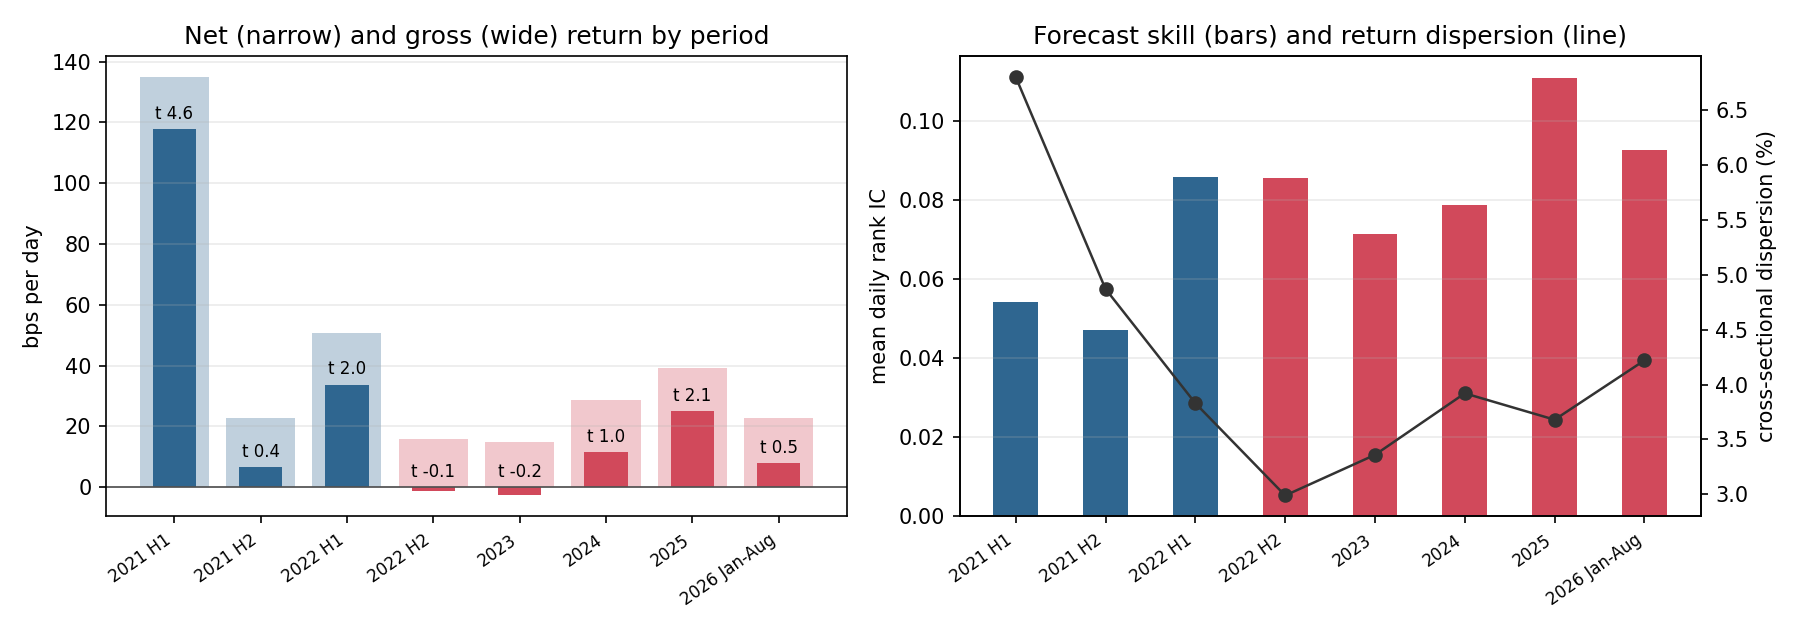
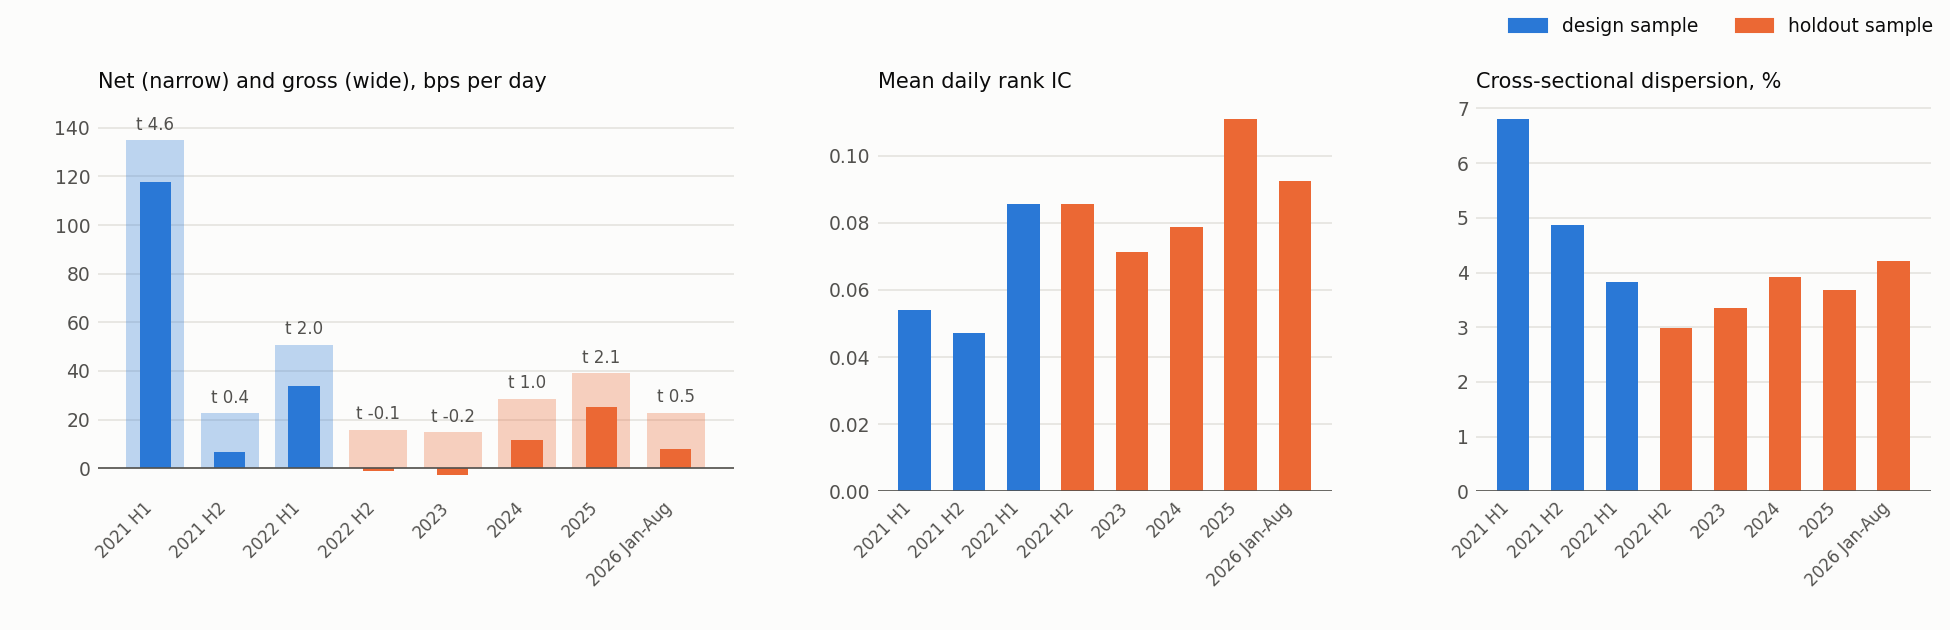
Refine the README and figures, add an MIT license

diff --git a/crypto_xs/plots.py b/crypto_xs/plots.py
@@ -1,67 +1,103 @@
-"""README figures from the saved books and summary."""
+"""README figures from the saved books and summary, in a light and a dark version."""
 import json
 
 import matplotlib
 matplotlib.use("Agg")
+import matplotlib.ticker
 import matplotlib.pyplot as plt
 import numpy as np
 import pandas as pd
 
 from .config import OUTPUT, ROOT, SAMPLES, utc
 
-COLORS = {"design": "#2f6690", "holdout": "#d1495b"}
+THEMES = {
+    "light": dict(surface="#fcfcfb", text="#0b0b0b", muted="#52514e", grid="#e4e3df",
+                  design="#2a78d6", holdout="#eb6834"),
+    "dark": dict(surface="#1a1a19", text="#ffffff", muted="#c3c2b7", grid="#34342f",
+                 design="#3987e5", holdout="#d95926"),
+}
 
 
-def equity_and_drawdown():
-    fig, (ax, bx) = plt.subplots(2, 1, figsize=(10, 6.5), sharex=True, gridspec_kw=dict(height_ratios=[2.2, 1]))
+def style(ax, t, grid_axis="y"):
+    ax.set_facecolor(t["surface"])
+    for side in ("top", "right", "left"):
+        ax.spines[side].set_visible(False)
+    ax.spines["bottom"].set_color(t["muted"])
+    ax.spines["bottom"].set_linewidth(0.8)
+    ax.tick_params(which="both", colors=t["muted"], labelsize=9, length=0)
+    ax.grid(axis=grid_axis, color=t["grid"], linewidth=0.8)
+    ax.set_axisbelow(True)
+
+
+def equity_and_drawdown(t, suffix):
+    fig, (ax, bx) = plt.subplots(2, 1, figsize=(10, 6.2), sharex=True, gridspec_kw=dict(height_ratios=[2.3, 1], hspace=0.08))
+    fig.patch.set_facecolor(t["surface"])
     start = 1.0
     for sample in SAMPLES:
         net = pd.read_parquet(OUTPUT / f"book_{sample}.parquet").net.dropna()
         eq = (1 + net).cumprod()
-        ax.plot(eq.index, start * eq, color=COLORS[sample], lw=1.4, label=f"{sample} sample")
-        bx.fill_between(eq.index, 100 * (eq / eq.cummax() - 1), 0, color=COLORS[sample], alpha=0.35, lw=0)
+        ax.plot(eq.index, start * eq, color=t[sample], lw=1.6, label=f"{sample} sample")
+        bx.fill_between(eq.index, 100 * (eq / eq.cummax() - 1), 0, color=t[sample], alpha=0.45, lw=0)
+        ax.annotate(f"${start * eq.iloc[-1]:,.1f}", (eq.index[-1], start * eq.iloc[-1]), xytext=(6, 0),
+                    textcoords="offset points", va="center", fontsize=9, color=t["text"])
         start *= eq.iloc[-1]
     for a in (ax, bx):
-        a.axvline(utc("2022-07-01"), color="0.3", lw=0.8, ls="--")
-        a.grid(alpha=0.25)
+        style(a, t)
+        a.axvline(utc("2022-07-01"), color=t["muted"], lw=0.8)
+    ax.text(utc("2022-07-20"), 1.05, "holdout opens 2022-07-01", color=t["muted"], fontsize=9, va="bottom")
     ax.set_yscale("log")
-    ax.set_ylabel("growth of $1, net of cost (log)")
-    ax.legend(frameon=False, loc="upper left")
-    ax.set_title("Daily long-short book on Binance USDT perpetuals, net of trading cost, funding included")
-    bx.set_ylabel("drawdown within sample (%)")
-    fig.tight_layout()
-    fig.savefig(ROOT / "figures" / "equity.png", dpi=150)
+    ax.set_yticks([1, 2, 5, 10, 20, 50])
+    ax.set_yticklabels(["$1", "$2", "$5", "$10", "$20", "$50"])
+    ax.yaxis.set_minor_locator(matplotlib.ticker.NullLocator())
+    ax.set_ylabel("growth of $1, net of cost (log scale)", color=t["muted"], fontsize=9)
+    leg = ax.legend(frameon=False, loc="upper left", fontsize=9)
+    for txt in leg.get_texts():
+        txt.set_color(t["text"])
+    ax.set_title("Daily long-short book on Binance USDT perpetuals, after trading cost and funding",
+                 color=t["text"], fontsize=11, loc="left", pad=10)
+    bx.set_ylabel("drawdown within\nsample (%)", color=t["muted"], fontsize=9)
+    fig.subplots_adjust(left=0.09, right=0.93, top=0.92, bottom=0.07)
+    fig.savefig(ROOT / "figures" / f"equity{suffix}.png", dpi=150, facecolor=t["surface"])
     plt.close(fig)
 
 
-def by_period():
+def by_period(t, suffix):
     s = json.load(open(OUTPUT / "summary.json"))
     rows = [(lab, sample, p) for sample in SAMPLES for lab, p in s[sample]["periods"].items()]
-    x = np.arange(len(rows)); colors = [COLORS[r[1]] for r in rows]
-    fig, (ax, bx) = plt.subplots(1, 2, figsize=(12, 4.2))
-    ax.bar(x, [r[2]["gross_bps"] for r in rows], color=colors, alpha=0.3, label="gross")
-    ax.bar(x, [r[2]["net_bps"] for r in rows], color=colors, width=0.5, label="net")
+    x = np.arange(len(rows)); colors = [t[r[1]] for r in rows]
+    fig, axes = plt.subplots(1, 3, figsize=(13, 4.2), gridspec_kw=dict(width_ratios=[1.4, 1, 1], wspace=0.28))
+    fig.patch.set_facecolor(t["surface"])
+    ax, bx, cx = axes
+    ax.bar(x, [r[2]["gross_bps"] for r in rows], width=0.78, color=colors, alpha=0.3)
+    ax.bar(x, [r[2]["net_bps"] for r in rows], width=0.42, color=colors)
     for i, r in enumerate(rows):
-        ax.annotate(f"t {r[2]['t_nw10']:.1f}", (i, max(r[2]["net_bps"], 0)), ha="center", va="bottom", fontsize=8, xytext=(0, 3), textcoords="offset points")
-    ax.axhline(0, color="0.3", lw=0.8)
-    ax.set_ylabel("bps per day")
-    ax.set_title("Net (narrow) and gross (wide) return by period")
-    bx.bar(x, [r[2]["ic"] for r in rows], color=colors, width=0.5)
-    bx.set_ylabel("mean daily rank IC")
-    cx = bx.twinx()
-    cx.plot(x, [r[2]["dispersion_pct"] for r in rows], color="0.2", marker="o", lw=1.2)
-    cx.set_ylabel("cross-sectional dispersion (%)")
-    bx.set_title("Forecast skill (bars) and return dispersion (line)")
-    for a in (ax, bx):
+        top = max(r[2]["net_bps"], r[2]["gross_bps"], 0)
+        ax.annotate(f"t {r[2]['t_nw10']:.1f}", (i, top), xytext=(0, 3), textcoords="offset points", ha="center",
+                    va="bottom", fontsize=8, color=t["muted"])
+    ax.set_ylim(top=1.12 * max(max(r[2]["gross_bps"], r[2]["net_bps"]) for r in rows))
+    ax.set_title("Net (narrow) and gross (wide), bps per day", color=t["text"], fontsize=10, loc="left")
+    bx.bar(x, [r[2]["ic"] for r in rows], width=0.6, color=colors)
+    bx.set_title("Mean daily rank IC", color=t["text"], fontsize=10, loc="left")
+    cx.bar(x, [r[2]["dispersion_pct"] for r in rows], width=0.6, color=colors)
+    cx.set_title("Cross-sectional dispersion, %", color=t["text"], fontsize=10, loc="left")
+    for a in axes:
+        style(a, t)
+        a.axhline(0, color=t["muted"], lw=0.8)
+        a.spines["bottom"].set_visible(False)
         a.set_xticks(x)
-        a.set_xticklabels([r[0] for r in rows], rotation=35, ha="right", fontsize=8)
-        a.grid(alpha=0.25, axis="y")
-    fig.tight_layout()
-    fig.savefig(ROOT / "figures" / "by_period.png", dpi=150)
+        a.set_xticklabels([r[0] for r in rows], rotation=45, ha="right", fontsize=8)
+    handles = [plt.Rectangle((0, 0), 1, 1, color=t[k]) for k in SAMPLES]
+    leg = fig.legend(handles, [f"{k} sample" for k in SAMPLES], loc="upper right", ncol=2, frameon=False, fontsize=9)
+    for txt in leg.get_texts():
+        txt.set_color(t["text"])
+    fig.subplots_adjust(left=0.05, right=0.99, top=0.84, bottom=0.22)
+    fig.savefig(ROOT / "figures" / f"by_period{suffix}.png", dpi=150, facecolor=t["surface"])
     plt.close(fig)
 
 
 def run():
     (ROOT / "figures").mkdir(exist_ok=True)
-    equity_and_drawdown()
-    by_period()
+    for name, t in THEMES.items():
+        suffix = "" if name == "light" else "-dark"
+        equity_and_drawdown(t, suffix)
+        by_period(t, suffix)

diff --git a/README.md b/README.md
@@ -1,8 +1,13 @@
-# crypto-xs-perps
+# A machine-learning long-short book on Binance perpetuals, tested on a sealed holdout
 
-A daily cross-sectional long-short book on Binance USDT-margined perpetual futures. Each day two models rank about 100 coins on 32 features built from hourly bars and funding rates, one a ridge regression and the other gradient-boosted trees. The book was developed on January 2021 to June 2022. A holdout from July 2022 to August 2026 stayed sealed until the design was frozen and was then read once.
+Each day the book ranks about 100 coins by two forecasts of their next-week return, one from ridge regression and one from gradient-boosted trees, and trades the extremes in Binance USDT-margined perpetual futures. The 32 inputs come from hourly bars and funding rates and cover order flow, momentum, liquidity, links to BTC and the S&P 500, the perpetual's premium and funding, and short-squeeze proxies. Development used January 2021 to June 2022. A holdout from July 2022 to August 2026 stayed sealed until the design was frozen and was then read once.
 
-The design sample netted 52.45 bps a day after trading cost, with a Newey-West t of 3.91. On the holdout the same book netted 9.30 bps a day with t 1.58, short of the 2.00 hurdle fixed before the read, so the design result is not confirmed out of sample. Forecast skill held up on the holdout, with a mean daily rank IC of 0.088 against 0.062 in design. Gross return fell from 69 to 25 bps a day as cross-sectional dispersion shrank and the book became a net payer of funding.
+The design sample netted 52.45 bps a day after trading cost and funding, with a Newey-West t of 3.91. On the holdout the same book netted 9.30 bps a day with t 1.58, short of the 2.00 hurdle fixed before the read, so the design result is not confirmed out of sample. Forecast skill held up on the holdout, with a mean daily rank IC of 0.088 against 0.062 in design. Gross return fell from 69 to 25 bps a day as cross-sectional dispersion shrank and the book became a net payer of funding.
+
+<picture>
+  <source media="(prefers-color-scheme: dark)" srcset="figures/equity-dark.png">
+  <img alt="Growth of $1 in the book with its drawdown, design sample then holdout" src="figures/equity.png">
+</picture>
 
 ## Results
 
@@ -25,11 +30,12 @@ The design sample netted 52.45 bps a day after trading cost, with a Newey-West t
 | Correlation with the equal-weight market | -0.17 | -0.46 |
 | $10,000 at the end of the sample | $144,866 | $26,765 |
 
-Returns run from one 00:00 UTC close to the next and include every funding settlement in between. Gross and net figures both include funding. The bootstrap uses circular blocks of 10 days.
+Returns run from one 00:00 UTC close to the next and include every funding settlement in between, so gross and net figures both carry funding. The bootstrap resamples circular blocks of 10 days. Every number in this README is read from `output/summary.json`, which `python pipeline.py report` writes.
 
-![Growth of the book and drawdown](figures/equity.png)
-
-![Return and forecast skill by period](figures/by_period.png)
+<picture>
+  <source media="(prefers-color-scheme: dark)" srcset="figures/by_period-dark.png">
+  <img alt="Return, t statistic, rank IC and dispersion by period" src="figures/by_period.png">
+</picture>
 
 | Period | Days | Net, bps/day | t | Gross, bps/day | Funding, bps/day | Rank IC | Dispersion |
 |---|---|---|---|---|---|---|---|
@@ -50,13 +56,13 @@ Most of the design return came from the first half of 2021, when dispersion was 
 
 The test was fixed before the read as a one-sided Newey-West t statistic with 10 lags on daily net returns, against a hurdle of 2.00. Development ran 142 trials whose daily returns had a mean pairwise correlation of 0.71. Scaling the expected maximum of 142 standard normals (2.65) by the square root of one minus that correlation gives 1.43, below the conventional floor of 2.0, so the floor governs (Bailey and López de Prado, 2014). Because machine-learning books on the crypto cross-section are already published (Cakici et al., 2024), the power calculation assumed the holdout would keep 42% of the design effect; at that effect, net of the extra basis point of fee, power was 0.73. The non-rejection therefore moves the odds against the design effect by about 3.6 times and stops short of showing the effect is absent.
 
-From the development record, the design-sample deflated Sharpe ratio was 0.985 to 0.999. The probability of backtest overfitting, from 16-block combinatorial splits of 76 captured trial series, ranged from 0.06 to 0.22 across block offsets. An earlier spot-only window (April 2019 to April 2020) gave a deflated Sharpe of 0.66 to 0.70. The trial return matrix behind these figures is not part of this repository.
+From the development record, the design-sample deflated Sharpe ratio was 0.985 to 0.999. The probability of backtest overfitting, from 16-block combinatorial splits of 76 captured trial series, ranged from 0.06 to 0.22 across block offsets. An earlier spot-only window (April 2019 to April 2020) gave a deflated Sharpe of 0.66 to 0.70.
 
 ## Method
 
 ### Universe
 
-Each month the universe holds the 100 Binance spot USDT pairs with the highest quote volume over the trailing 90 days, measured through the end of the previous month. A member stays while it ranks 120th or better and a newcomer enters at 80th or better, which cuts monthly churn by about 60% against a plain 30-day top 100. Stablecoin bases, fiat bases, leveraged tokens and wrapped coins are left out. On a given day a coin enters the panel when it is in the universe with at least 20 hourly spot bars. The panel also requires defined order-flow features, today's return, a 20-day volatility and a next-day spot return. Trading happens in the coin's perpetual, on days when the perpetual has a next-day return and a funding figure.
+Each month the universe holds the 100 Binance spot USDT pairs with the highest quote volume over the trailing 90 days, measured through the end of the previous month. A member stays while it ranks 120th or better and a newcomer enters at 80th or better, which cuts monthly churn by about 60% against a plain 30-day top 100. Stablecoin bases, fiat bases, leveraged tokens and wrapped coins are left out. The Binance archive keeps delisted symbols, so membership is point in time. On a given day a coin enters the panel when it is in the universe with at least 20 hourly spot bars. The panel also requires defined order-flow features, today's return, a 20-day volatility and a next-day spot return. Trading happens in the coin's perpetual, on days when the perpetual has a next-day return and a funding figure.
 
 ### Features
 
@@ -106,15 +112,25 @@ The one-way spread of 12.93 bp starts from a quoted half-spread of 11.0 bp for B
 
 A day's funding is the sum of every settlement after the book forms through the next 00:00 UTC fix, so 8-hour, 4-hour, 1-hour and emergency settlements are all charged. The day counts only when that closing fix exists and the settlements cover 24 hours. Where a coin has a score and funding but no perpetual return that day, its spot return stands in (329 coin-days in design, 61 in the holdout). A perpetual whose bars stop for good exits at its last hourly close with funding settled up to then.
 
-## Data note
+## Limitations
 
-The hourly perpetual files behind the results above lack the 00:00 UTC bar on the first day of each month from January 2022 on. Binance added a header row to those files that month, and the original download read the first data row of each file as the header. The download code in this repository keeps that row. Perpetual returns and `basis` use the 23:00 UTC close and are unaffected. On and after the first of each month the gap touches the inputs built from perpetual volume and imbalance (`flow_gap`, `perp_share`, `cascades_7d`, `perp_flow_lead_3d` and `perp_discount_3d`), so a fresh download will give slightly different features. The holdout was read once and is not re-run on corrected files.
+**Missing perpetual bars in the recorded run.** The hourly perpetual files behind the results above lack the 00:00 UTC bar on the first day of each month from January 2022 on. Binance added a header row to those files that month, and the original download read the first data row of each file as the header. The download code in this repository keeps that row. Perpetual returns and `basis` use the 23:00 UTC close and are unaffected. On and after the first of each month the gap touches the inputs built from perpetual volume and imbalance (`flow_gap`, `perp_share`, `cascades_7d`, `perp_flow_lead_3d` and `perp_discount_3d`), so a fresh download will give slightly different features. The holdout was read once and is not re-run on corrected files.
 
-## Running it
+**Cost is flat across order sizes.** No published depth or size-cost figures for Binance perpetuals were found, so the cost carries no market-impact term. As a rough guide to scale, the 95th-percentile trade in the holdout reaches 1% of the coin's same-day spot volume at an account of about $1.2M.
+
+**Fills at the funding fix.** The book trades at the 00:00 UTC close, which is also the funding settlement time. Slippage between signal and fill is not modeled beyond the 3.1% funding-hour widening built into the spread.
+
+**Funding gaps.** For 1,101 perpetual-months the archive publishes no funding file, nearly all for contracts from mid-2025 on whose funding archive stops while their bars continue. Those coin-days stay outside the tradable set.
+
+**Selection statistics come from outside this repository.** The trial count, trial correlation, deflated Sharpe and overfitting probability were computed on the development runs, whose daily return matrix is not included here.
+
+## Reproduction
 
 Python 3.10 or later. About 2 GB of hourly parquet files come from the public Binance archive at data.binance.vision, which needs no API key. The S&P 500 series comes from Yahoo Finance.
 
 ```bash
+git clone https://github.com/boomer25tiger/crypto-xs-perps.git
+cd crypto-xs-perps
 python -m venv .venv && source .venv/bin/activate
 pip install -r requirements.txt
 python pipeline.py download    # Binance hourly klines and funding, plus S&P 500 closes
@@ -125,9 +141,9 @@ python pipeline.py report      # design and holdout books, output/summary.json
 python pipeline.py figures     # figures/
 ```
 
-Each stage skips work already on disk. On four cores the feature build takes about 25 minutes and the walk-forward about 20. Inputs go to `data/` and results to `output/`; git ignores both.
+Each stage skips work already on disk. On four cores the feature build takes about 25 minutes and the walk-forward about 20. Inputs go to `data/` and results to `output/`; git ignores both. On the original data files the report prints the figures above, from `design: 543 days, net 52.45 bps/day (NW10 t 3.905)` to `holdout: 1520 days, net 9.3 bps/day (NW10 t 1.578)`. A fresh download differs slightly for the reason given under Limitations.
 
-## Layout
+## Repository layout
 
 | File | Contents |
 |---|---|
@@ -141,7 +157,7 @@ Each stage skips work already on disk. On four cores the feature build takes abo
 | `crypto_xs/models.py` | target, ridge regression, boosted trees and the monthly walk-forward |
 | `crypto_xs/portfolio.py` | momentum neutralization, decile legs, partial trading and cost |
 | `crypto_xs/report.py` | summary statistics and the holdout test |
-| `crypto_xs/plots.py` | README figures |
+| `crypto_xs/plots.py` | README figures, light and dark |
 
 ## References
 
@@ -149,3 +165,7 @@ Each stage skips work already on disk. On four cores the feature build takes abo
 - Bailey, D. H., J. M. Borwein, M. López de Prado and Q. J. Zhu (2017). The probability of backtest overfitting. *Journal of Computational Finance* 20(4), 39-69.
 - Cakici, N., S. J. H. Shahzad, B. Będowska-Sójka and A. Zaremba (2024). Machine learning and the cross-section of cryptocurrency returns. *International Review of Financial Analysis* 94.
 - Newey, W. K. and K. D. West (1987). A simple, positive semi-definite, heteroskedasticity and autocorrelation consistent covariance matrix. *Econometrica* 55(3), 703-708.
+
+## Scope
+
+The repository documents a research measurement of whether a daily cross-sectional book's edge survived a sealed holdout. Nothing in it is investment advice or a recommendation to trade anything described here. The code is released under the MIT License.
